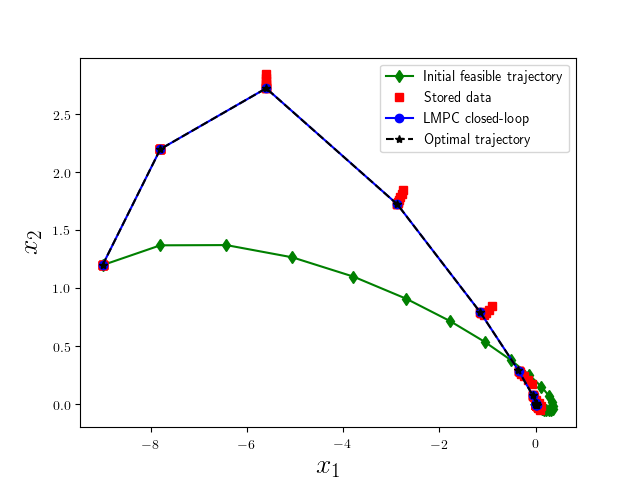
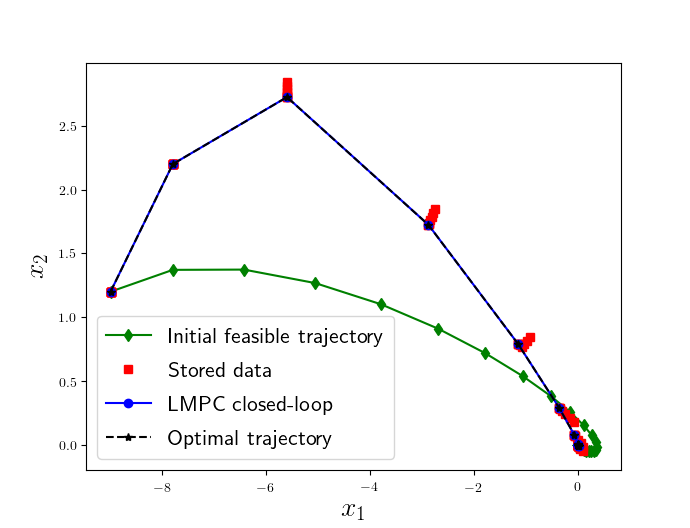
change figure size README

diff --git a/LinearLMPC/plot.py b/LinearLMPC/plot.py
@@ -32,7 +32,7 @@ i = it-1
 xcl = np.array(lmpc.SS[i]).T
 plt.plot(xcl[0,:], xcl[1,:], '-ob', label='LMPC closed-loop')
 plt.plot(lmpc.xOpt[0,:], lmpc.xOpt[1,:], '--*k', label='Optimal trajectory')
-plt.legend()
+plt.legend(fontsize=16)
 
 plt.xlabel('$x_1$', fontsize=20)
 plt.ylabel('$x_2$', fontsize=20)
@@ -51,7 +51,7 @@ plt.plot(totCost, '-ob', label='Iteration Cost')
 plt.plot([0, it-1], [lmpc.optCost, lmpc.optCost], '--k', label='Optimal cost')
 
 plt.xlabel('$\mathrm{Iteration}$', fontsize=20)
-plt.legend()
+plt.legend(fontsize=16)
 
 # =========================================================
 # Plot iteration cost just LMPC
@@ -67,7 +67,7 @@ plt.plot(totCost, '-ob', label='Iteration Cost')
 plt.plot([0, it-1], [lmpc.optCost, lmpc.optCost], '--k', label='Optimal cost')
 
 plt.xlabel('$\mathrm{Iteration}$', fontsize=20)
-plt.legend()
+plt.legend(fontsize=16)
 
 print "Percentage deviation: ", np.abs((lmpc.optCost-totCost[-1])/lmpc.optCost)*100
 

diff --git a/LinearLMPC/README.md b/LinearLMPC/README.md
@@ -6,7 +6,7 @@ This code runs the LMPC from [1] and [2] to solve the following Contratined LQR 
 <img src="https://github.com/urosolia/LMPC/blob/master/LinearLMPC/readmeFigures/CLQR.png" width="500" />
 </p>
 
-The LMPC will improve the closed-loop performance, unitl the closed-loop trajectory converges to a steady state behavior. The assocaited state state closed-loop trajectory is the unique gloabl optimal solution to above control problem, if some the technical conditions hold. For more details we refer to [1].
+The LMPC will improve the closed-loop performance, unitl the closed-loop trajectory converges to a steady state behavior. This state state closed-loop trajectory is the unique gloabl optimal solution to above control problem, if some the technical conditions hold. For more details we refer to [1].
 <p align="center">
 <img src="https://github.com/urosolia/LMPC/blob/master/LinearLMPC/readmeFigures/closed-loop.png" width="420" />
 <img src="https://github.com/urosolia/LMPC/blob/master/LinearLMPC/readmeFigures/costImprovement.png" width="420" />
